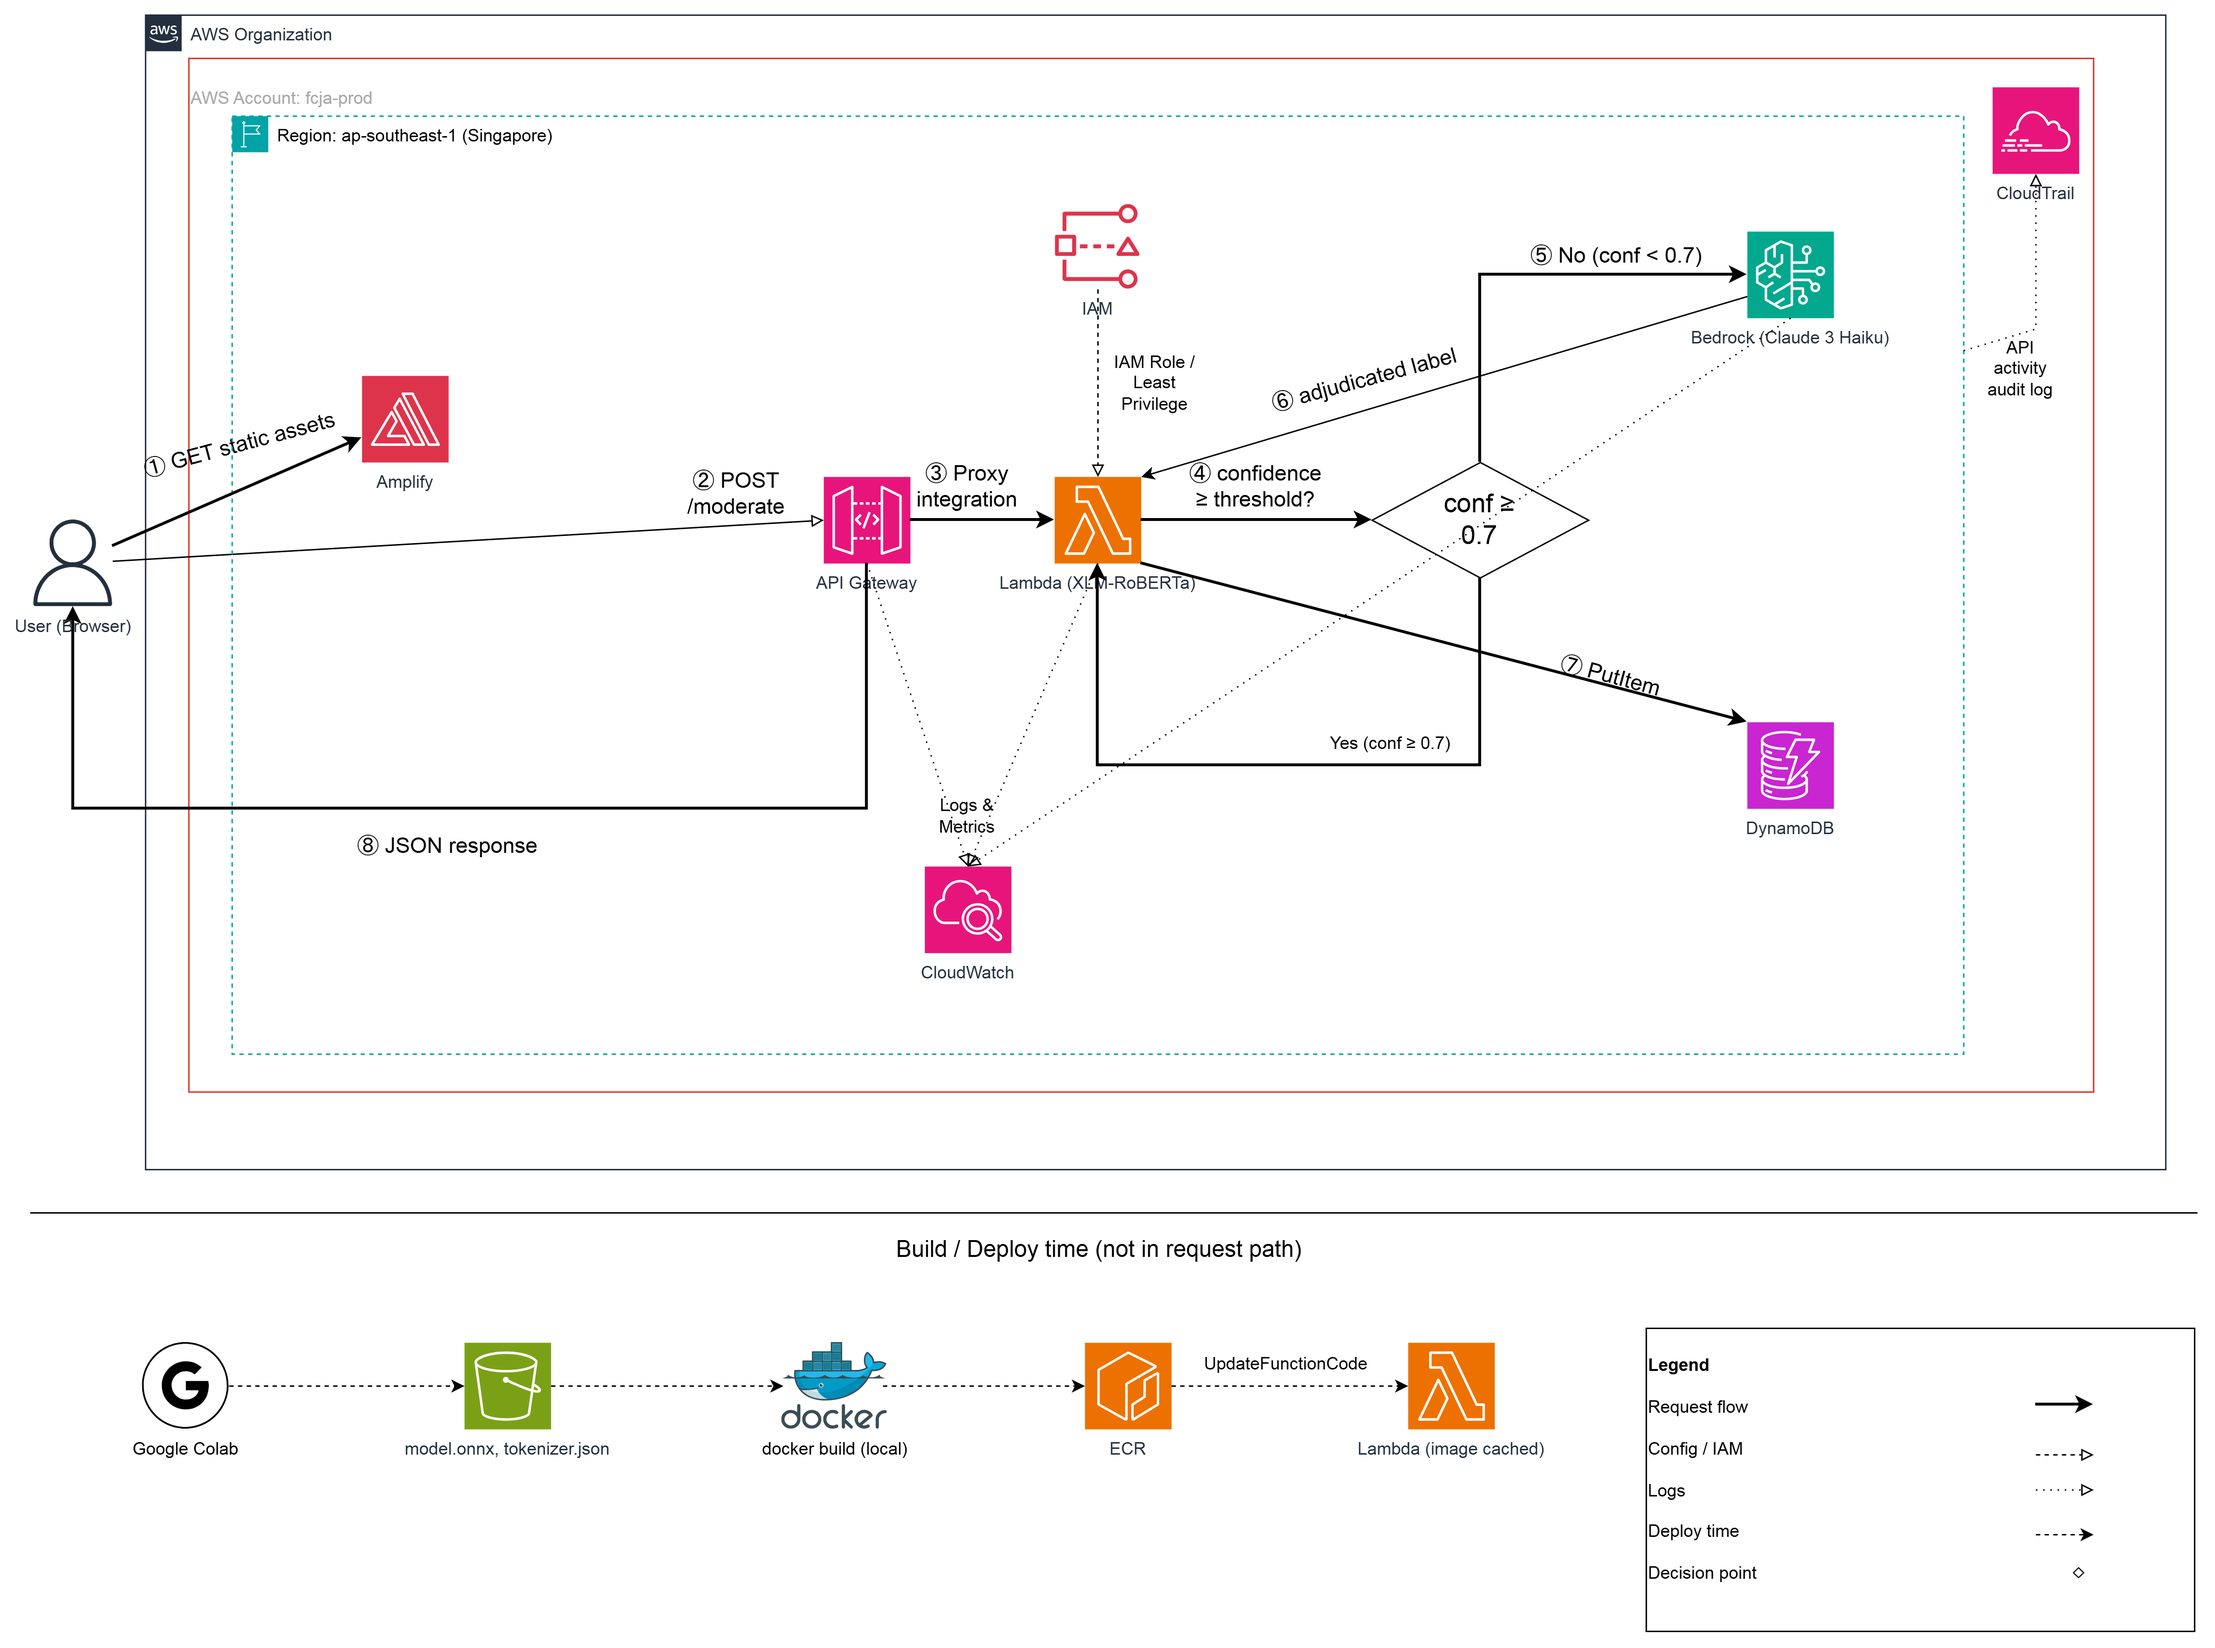
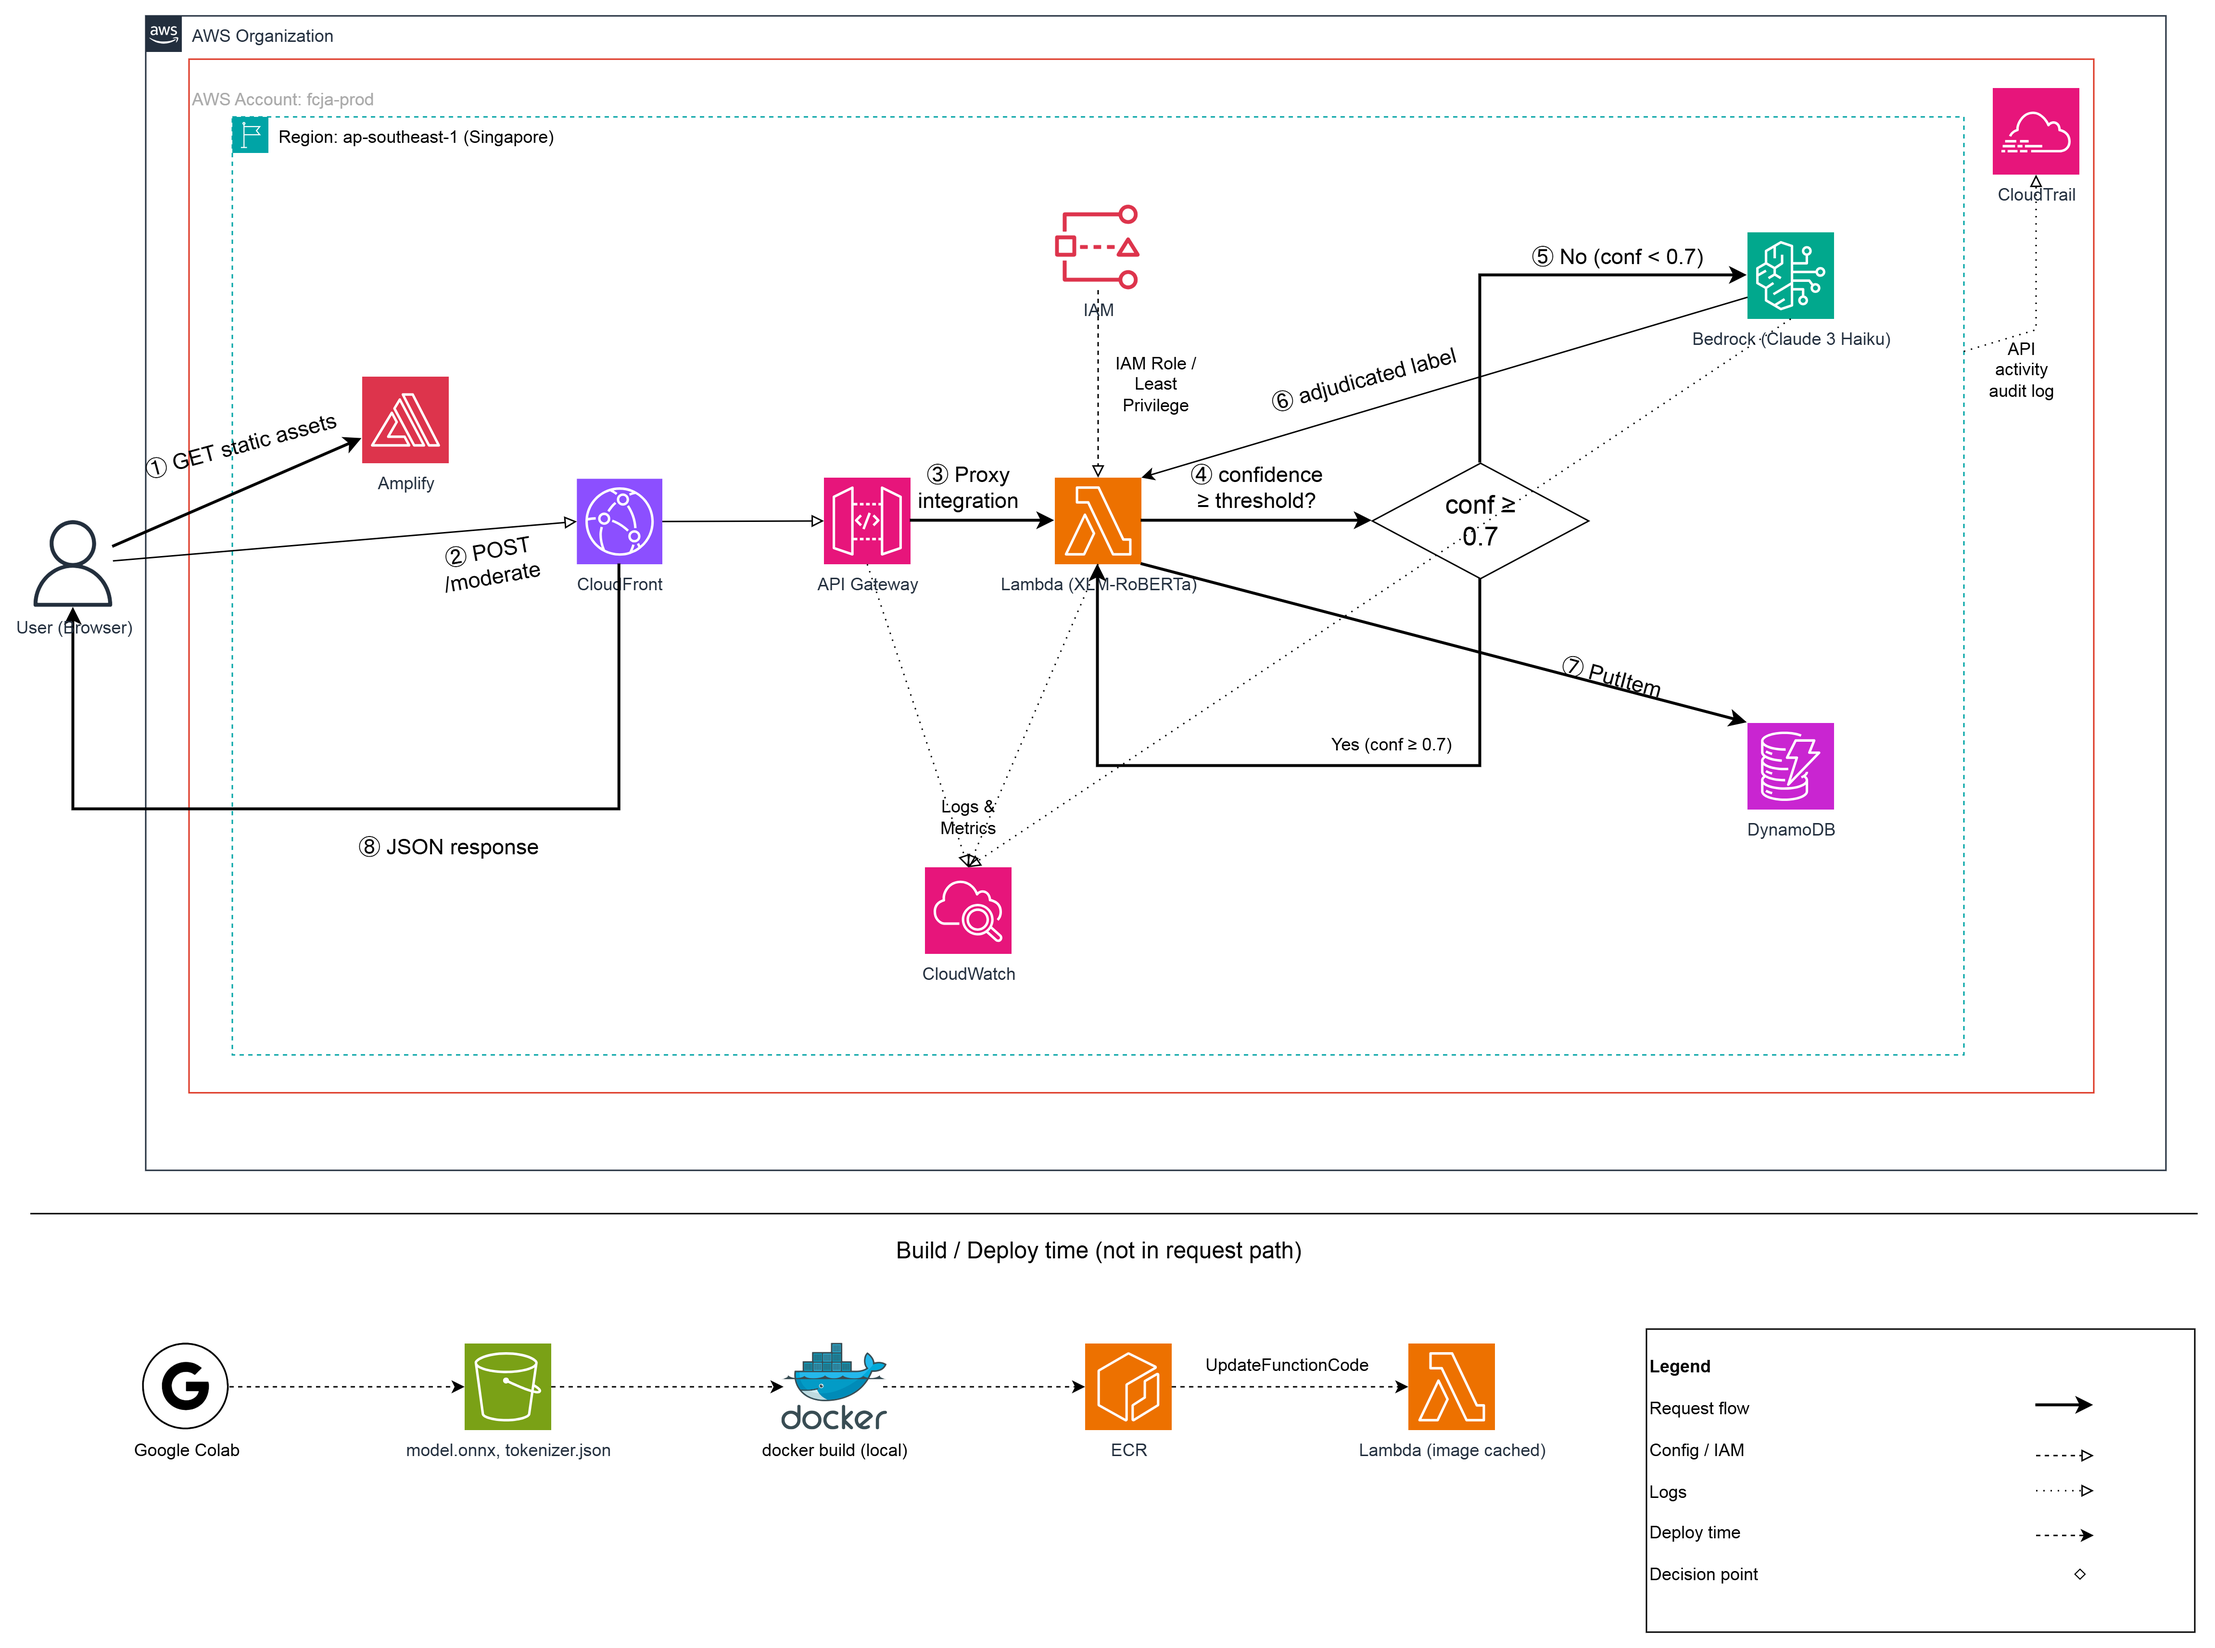
Update FCAJ internship report site - 2026-07-31 17:43

diff --git a/content/7-Feedback/_index.md b/content/7-Feedback/_index.md
@@ -29,6 +29,8 @@ The report was submitted on 31/07/2026, but the HCMUT external-internship period
 * **Collecting feedback.** We gathered comments on the three blog posts from the AWS Study Group community and questions raised during the 25/07 community session, and turned them into a prioritised list of issues.
 * **Acting on the model result.** The clearest piece of feedback was on the evaluation in section 5.3 — the fine-tuned model scored below the TF-IDF baseline on macro-F1 because free-tier Colab capped training at 3 epochs. In this phase we re-ran training on a paid GPU runtime with early stopping on macro-F1, and began a comparison against a Vietnamese-pretrained encoder. The results are not included in the graded report, which reports only what was measured by the submission date.
 * **Hardening the system.** Reducing cold start by trimming the container image, adding input-length validation on the server side rather than relying on the browser `maxLength`, and adding a per-IP rate limit at API Gateway.
+* **Automating the build.** Two reviewers independently pointed at the same weakness: the Lambda image is built by hand on a developer machine and pushed to ECR manually. That is not reproducible, not auditable and does not scale to a team. The replacement is a GitHub Actions workflow triggered on push — pull the model artefacts from S3, `docker build` on the runner, tag with the commit SHA instead of a floating `v1`, push to ECR through an OIDC role so no long-lived AWS keys live in the repository, then `UpdateFunctionCode`. The infrastructure should move to AWS SAM or CDK at the same time. The team already runs GitHub Actions for this report website, so only the Lambda image was left out.
+* **Consolidating the edge layer.** CloudFront already fronts the API, which gives Shield protection and TLS termination at the edge — but *not* caching, since `/moderate` is a `POST` with a different body on every call. The remaining step is to route the front end through the **same** distribution (`/api/*` to API Gateway, everything else to the static site). That would place the interface and the API on a single origin, removing the CORS requirement described in section 5.5 rather than configuring around it, and would give the product one custom domain.
 * **Documentation.** Writing a deployment runbook so a new team member can reproduce the whole stack from an empty AWS account.
 
 This phase is what the two weeks after submission were for, and it is where most of the "what we would do differently" items in section 5.3 were actually attempted.

diff --git a/content/2-Proposal/_index.md b/content/2-Proposal/_index.md
@@ -26,7 +26,7 @@ Reduces manual moderation workload, answers in about a second on a warm containe
 Processing flow, numbered as in the diagram below:
 
 1. The browser loads the React single-page application from **Amplify Hosting**, which serves static assets only.
-2. From that point Amplify is out of the path: the browser itself issues **POST /moderate** directly to **API Gateway** — a different origin from the one that served the page, which is exactly why CORS has to be configured on both the preflight and the real response.
+2. From that point Amplify is out of the path: the browser itself issues **POST /moderate**, which reaches the API through **Amazon CloudFront**. Terminating at the nearest edge location shortens the TLS handshake, and AWS Shield absorbs network-layer attacks at the edge before they reach the Region. CloudFront forwards the request to **API Gateway**. Because the API and the front end sit on different origins, the browser still treats this as a cross-origin call — which is why CORS has to be configured on both the preflight and the real response.
 3. API Gateway invokes **Lambda** through proxy integration.
 4. The Lambda container runs the fine-tuned XLM-RoBERTa (ONNX INT8) held inside the image, and produces a label with a confidence score.
 5. If confidence < 0.7, the request is escalated to **Amazon Bedrock (Claude 3 Haiku)**.
@@ -43,6 +43,7 @@ Processing flow, numbered as in the diagram below:
 
 *AWS services used*
 - **AWS Amplify Hosting**: hosts the React demo UI, CI/CD from GitHub, built-in HTTPS.
+- **Amazon CloudFront**: edge layer in front of the API — TLS terminated close to the user, AWS Shield protection at the edge, and the natural attachment point for a custom domain or AWS WAF. Note that it brings no caching benefit here: `/moderate` is a `POST` whose body differs on every call.
 - **Amazon API Gateway**: REST API for the /moderate endpoint, throttling to prevent abuse.
 - **AWS Lambda (container image)**: runs the fine-tuned XLM-RoBERTa model (ONNX INT8); serverless, pay per request.
 - **Amazon Bedrock (Claude Haiku)**: LLM arbitration for hard cases (sarcasm, new slang) without self-hosting an LLM.

diff --git a/content/5-Workshop/5.1-Workshop-overview/_index.vi.md b/content/5-Workshop/5.1-Workshop-overview/_index.vi.md
@@ -15,7 +15,7 @@ Ngôn từ tục tĩu, xúc phạm xuất hiện dày đặc trong bình luận 
 Luồng xử lý của hệ thống:
 
 1. Trình duyệt tải ứng dụng React từ **Amplify Hosting** — chỉ là file tĩnh.
-2. Chính trình duyệt gửi `POST /moderate` **thẳng tới API Gateway**, ở origin khác với trang vừa tải. Amplify không phải proxy và từ đây không còn nằm trên đường đi; chính lời gọi cross-origin này là lý do phải cấu hình CORS.
+2. Chính trình duyệt gửi `POST /moderate`, request đi tới API thông qua **Amazon CloudFront** — TLS kết thúc ở edge location gần nhất, AWS Shield chặn tấn công tầng mạng ngay tại biên. CloudFront chuyển tiếp sang **API Gateway**. Amplify không phải proxy và từ đây không còn nằm trên đường đi; vì API ở origin khác với trang vừa tải nên đây vẫn là lời gọi cross-origin, phải cấu hình CORS.
 3. **API Gateway** gọi **Lambda (container image)** qua proxy integration.
 4. Lambda chạy model XLM-RoBERTa đã fine-tune (ONNX INT8) nằm sẵn trong image, cho ra nhãn kèm độ tin cậy.
 5. Nếu độ tin cậy < 0.7, request được đẩy sang **Amazon Bedrock (Claude 3 Haiku)**.
@@ -32,6 +32,7 @@ Song song với luồng request: **IAM** cấp execution role theo đặc quyề
 | Dịch vụ | Vai trò | Lý do chọn |
 |---|---|---|
 | Amplify Hosting | Host UI demo | CI/CD từ GitHub, HTTPS sẵn, miễn phí mức thấp |
+| CloudFront | Lớp edge trước API | Shield bảo vệ và kết thúc TLS ngay tại biên; **không có lợi ích cache** — `/moderate` là `POST`, mỗi lần body khác nhau |
 | API Gateway | REST endpoint | Managed, throttling chống lạm dụng |
 | Lambda (container) | Suy luận model | Serverless, trả tiền theo request, hỗ trợ image tới 10 GB |
 | Amazon Bedrock | Phân xử câu khó | Dùng Claude không cần tự host LLM |

diff --git a/content/5-Workshop/5.1-Workshop-overview/_index.md b/content/5-Workshop/5.1-Workshop-overview/_index.md
@@ -15,7 +15,7 @@ Profane and offensive language is pervasive in comments across Vietnamese social
 The system's processing flow:
 
 1. The browser loads the React app from **Amplify Hosting** — static assets only.
-2. The browser itself sends `POST /moderate` **directly to API Gateway**, on a different origin from the page. Amplify is not a proxy and is out of the path from here on; this cross-origin call is why CORS must be configured.
+2. The browser itself sends `POST /moderate`, which reaches the API through **Amazon CloudFront** — TLS terminated at the nearest edge location, AWS Shield absorbing network-layer attacks at the edge. CloudFront forwards to **API Gateway**. Amplify is not a proxy and is out of the path from here on; because the API sits on a different origin from the page, this remains a cross-origin call and CORS must be configured.
 3. **API Gateway** invokes **Lambda (container image)** through proxy integration.
 4. Lambda runs the fine-tuned XLM-RoBERTa model (ONNX INT8), held inside the image, and produces a label with a confidence score.
 5. If confidence < 0.7, the request is escalated to **Amazon Bedrock (Claude 3 Haiku)**.
@@ -32,6 +32,7 @@ Alongside the request path: **IAM** supplies the least-privilege execution role,
 | Service | Role | Why chosen |
 |---|---|---|
 | Amplify Hosting | Hosts the demo UI | CI/CD from GitHub, built-in HTTPS, generous free tier |
+| CloudFront | Edge layer in front of the API | Shield protection and TLS termination at the edge; **no caching benefit** — `/moderate` is a `POST` with a different body each call |
 | API Gateway | REST endpoint | Managed, throttling to prevent abuse |
 | Lambda (container) | Model inference | Serverless, pay per request, supports images up to 10 GB |
 | Amazon Bedrock | Arbitrates hard cases | Use Claude without self-hosting an LLM |
